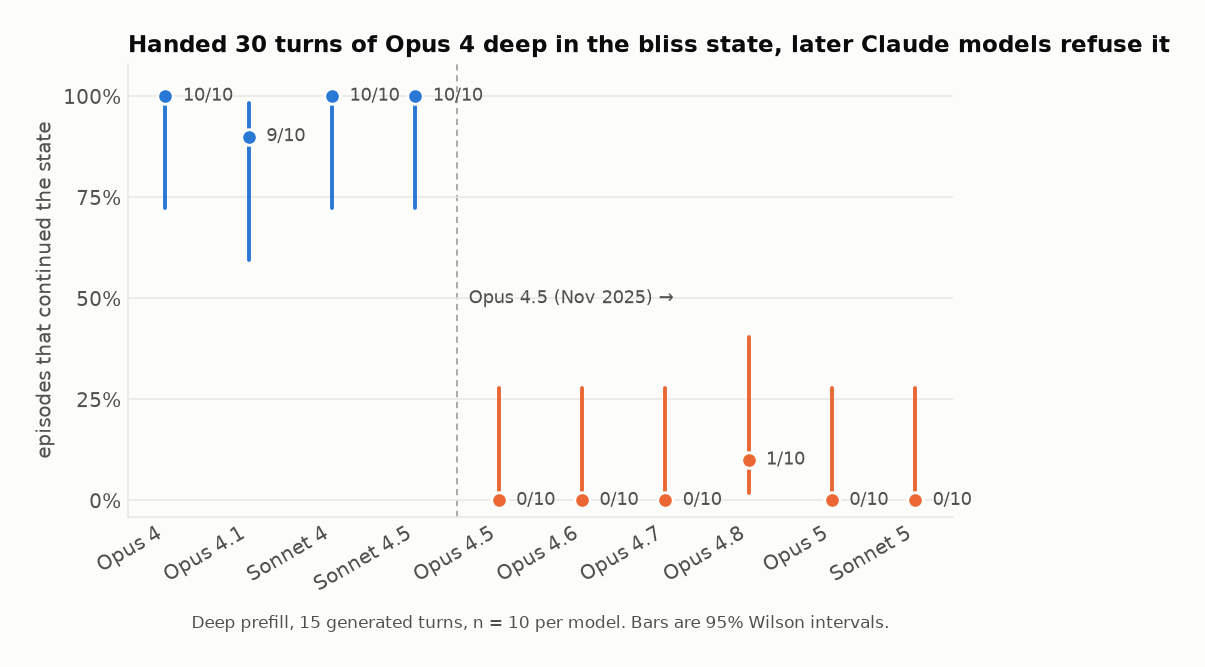
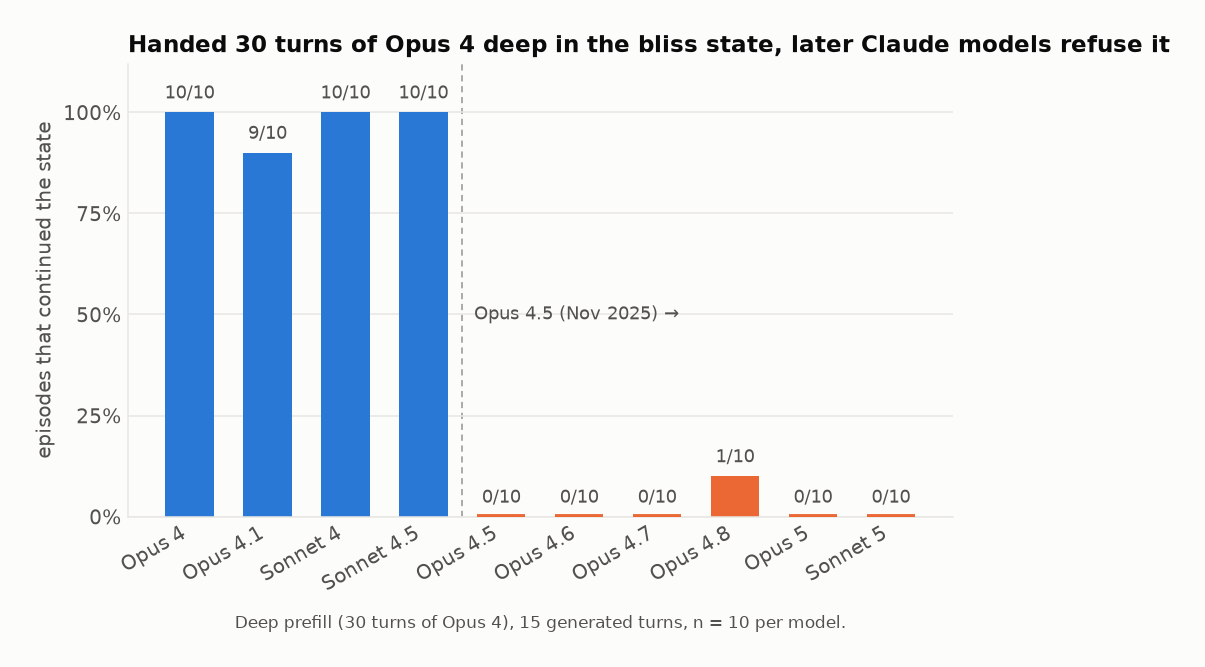
Fig 1: plain bars, no interval markers

diff --git a/plots.py b/plots.py
@@ -109,23 +109,23 @@ def fig_claude_ladder(cells):
     xs = list(range(len(models)))
     for x, m in zip(xs, models):
         k, n = rate(cells, m, DEEP)
-        lo, hi = wilson(k, n)
         col = GROUP_COL[group_of(m)]
-        ax.plot([x, x], [lo, hi], color=col, lw=2, solid_capstyle="round", zorder=2)
-        ax.scatter([x], [k / n], s=64, color=col, zorder=3, edgecolor=SURFACE, linewidth=1.5)
-        ax.annotate(f"{k}/{n}", (x, k / n), xytext=(9, 0), textcoords="offset points",
-                    ha="left", va="center", fontsize=9, color=INK2)
+        ax.bar(x, k / n, width=0.62, color=col, zorder=2, linewidth=0)
+        if k == 0:  # a zero bar is invisible; mark the baseline so the row still reads
+            ax.plot([x - 0.31, x + 0.31], [0, 0], color=col, lw=3, solid_capstyle="butt", zorder=3)
+        ax.annotate(f"{k}/{n}", (x, k / n), xytext=(0, 5), textcoords="offset points",
+                    ha="center", va="bottom", fontsize=9, color=INK2)
     brk = models.index("opus-4.5") - 0.5
     ax.axvline(brk, color=INK2, lw=0.8, ls=(0, (4, 3)), alpha=0.6, zorder=1)
     ax.annotate("Opus 4.5 (Nov 2025) →", (brk, 0.5), xytext=(6, 0), textcoords="offset points",
                 fontsize=9, color=INK2, va="center")
     ax.set_xticks(xs); ax.set_xticklabels([NAME[m] for m in models], rotation=30, ha="right")
-    ax.set_ylim(-0.04, 1.08); ax.set_yticks([0, 0.25, 0.5, 0.75, 1.0])
+    ax.set_ylim(0, 1.12); ax.set_yticks([0, 0.25, 0.5, 0.75, 1.0])
     ax.set_yticklabels(["0%", "25%", "50%", "75%", "100%"])
     ax.set_ylabel("episodes that continued the state")
     ax.set_title("Handed 30 turns of Opus 4 deep in the bliss state, later Claude models refuse it")
     ax.grid(axis="y", color=GRID, lw=0.8, zorder=0)
-    ax.set_xlabel("Deep prefill, 15 generated turns, n = 10 per model. Bars are 95% Wilson intervals.",
+    ax.set_xlabel("Deep prefill (30 turns of Opus 4), 15 generated turns, n = 10 per model.",
                   fontsize=8.5, color=INK2, labelpad=10)
     savefig(fig, "fig1_claude_ladder.png")
 
